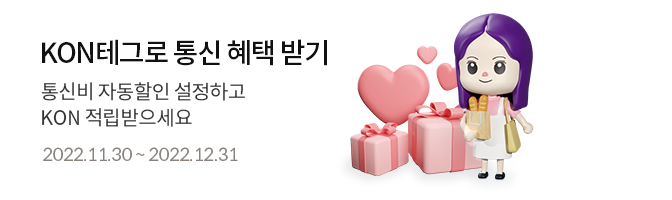
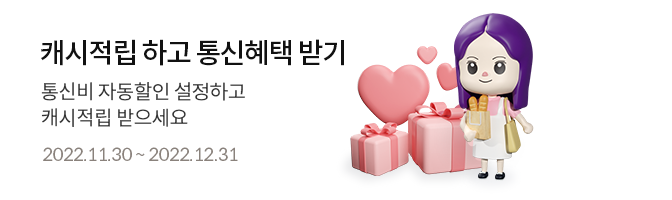
20221125 수정사항

Changed region(s): [[0.0625, 0.18, 0.5312, 0.33], [0.0625, 0.54, 0.2812, 0.66]]

diff --git a/assets/css/style.css b/assets/css/style.css
@@ -398,6 +398,7 @@ article.certify-box .certify {border-top:0;line-height:1;text-align: left;}
 .pattern .card-body .flex.column .home-info + .home-info{padding-top: 1rem;}
 .pattern .card-body .flex.column .home-info:last-child{padding-bottom: 0;}
 .pattern .card-body .flex.column .home-info.coin  dd p{color:#0fbcdd;font-weight: 700;}
+.pattern .card-body .flex.column .home-info.coin  dd p>em{font-size:1.5rem;}
 .pattern .card-body .flex.column .home-info.coin.connect-prev .btn-xs{/* margin-top: 4rem; */padding-right:0.5625rem;}
 .pattern .card-body .flex.column .home-info.coin .btn-w-fixed{height:2rem;display: inline-flex;align-items: center;justify-content: center;/*font-size: .9rem;*/padding-right: .9rem;}
 
@@ -3649,6 +3650,7 @@ main.sch-comn .ico{background-repeat: no-repeat;background-position: center;back
 .coinback-guide-container>li{margin-top:1.25rem;border-bottom: 1px solid #e4e4e4;padding-bottom: 1rem;}
 .coinback-guide-container>li:last-child{border-bottom: 0;}
 .coinback-guide-container img{display: block;margin:.5rem auto;margin-bottom:1rem;max-width: 16.375rem;image-rendering: -webkit-optimize-contrast;}
+.coinback-guide-container img.min-img{max-width:50%;}
 .coinback-guide-container .title{margin-bottom: .8rem;}
 .coinback-guide-container .title .num{color:#0fbcdd;font-weight: 600;font-size: 1.1875rem;}
 .coinback-guide-container .title .num::after{content: '.';}
@@ -5095,7 +5097,7 @@ main.sch-comn .ico{background-repeat: no-repeat;background-position: center;back
 .btn-light:disabled {background-color:#e4e4e4;color:#111;cursor: default;}
 .btn-light-secondary {color: #fff;background-color: #53cee6;border-radius: 0.25rem;}
 .btn-light-gray{color:#111;background-color: #f2f3f7;}
-.btn-more {font-size:.75rem;color:#888;/* text-decoration: underline; */min-height:1rem;}
+.btn-more {display:inline-flex;align-items:center;font-size:.75rem;color:#888;/* text-decoration: underline; */min-height:1rem;}
 .btn-dark{background-color: #444;color:#fff;}
 .btn-gray{background-color: #bcbcbc;color:#fff;}
 
@@ -5109,7 +5111,7 @@ main.sch-comn .ico{background-repeat: no-repeat;background-position: center;back
 .btn-round{border-radius: 2rem;}
 
 .btn-save-info-pop{position: relative;border-radius: 0.85rem !important;}
-.btn-save-info-pop::after{content:'';display: block;background:url(../images/icon/ico-question.gif) no-repeat center/contain;position: absolute;width:53px;height:37px;top:-34px;left:calc(50% - 20px);}
+.btn-save-info-pop::after{content:'';display: none;background:url(../images/icon/ico-question.gif) no-repeat center/contain;position: absolute;width:53px;height:37px;top:-34px;left:calc(50% - 20px);}
 .auto-save-area{display: flex;align-items: center;justify-content: space-between;min-height: 60px;}
 .auto-save-area .btn-save-info-pop{margin-bottom:-30px;}
 
@@ -5387,6 +5389,11 @@ main.sch-comn .ico{background-repeat: no-repeat;background-position: center;back
     background-size: 60%;
     background-position: center;
     margin-left: 5px;
+}
+
+h1 + .ico-refresh2{
+    position: absolute;
+    right:2.2rem;
 }
 
 .my-event .tab-wrp{
@@ -6051,8 +6058,8 @@ section.membership-barcode,
 .loading-now.open, .loading-short.show {width:100%;}
 .loading-now img, .loading-short img {max-height:10rem;}
 
-.pass-coinback-wrp {overflow: hidden;position: relative;height:5.2rem;padding:1rem 0 0;border-radius: 1rem;background:transparent url(../images/pass/bg_mydataBanner.jpg) no-repeat center / auto 100%;box-shadow: inherit}
-.pass-coinback-wrp:before {content:"";display:block;position: absolute;top:0;left:60%;right:0;z-index: 2;height:1.593rem;background-color: #53cee6;}
+.pass-coinback-wrp {overflow: hidden;position: relative;height:5.2rem;padding:0;border-radius: 1rem;background:transparent url(../images/pass/bg_mydataBanner.jpg) no-repeat center / auto 100%;box-shadow: inherit}
+.pass-coinback-wrp:before {content:"";display:block;position: absolute;top:0;left:60%;right:0;z-index: 2;height:1.6rem;background-color: #53cee6;}
 .pass-coinback-wrp:after {content:"";display:block;position: absolute;top:0;left:60%;right:0;z-index: 1;height:100%;background-color: #eaf9fc;}
 .pass-coinback-wrp .mydata-banner {display: flex;justify-content: space-evenly;align-items: flex-end;}
 .pass-coinback-wrp .mydata-banner .my-info{margin-top:-.2rem;padding-bottom:.2rem;}
@@ -6062,7 +6069,7 @@ section.membership-barcode,
 .pass-coinback-wrp .coin {margin-top:0.25rem;color:#383838;font-size:0.875rem;font-weight: 700;}
 .pass-coinback-wrp .coin strong {font-size:1.125rem;}
 .pass-coinback-wrp .col-8 {position: relative;z-index: 2;height:100%;}
-.pass-coinback-wrp .brand-area img {height:3rem;max-height:100%;}
+.pass-coinback-wrp .brand-area img {height:4.75rem;max-height:100%;}
 .pass-coinback-wrp .brand-area .info {height:1rem;text-align: right;}
 .pass-coinback-wrp .brand-area ul {display: flex;}
 .pass-coinback-wrp .brand-area li {position: relative; height:2.375rem;padding:0 0.5625rem;}

diff --git a/MYA1_02_자산관리.html b/MYA1_02_자산관리.html
@@ -15,6 +15,9 @@
 	<header id="header" class="bg-white title-left">
 		<button type="button" class="btn-back"><em class="ico ico-back">이전</em></button>
 		<h1>자산 관리</h1>
+		<!-- 20221124 업데이트 버튼 이동 -->
+		<button type="button" class="ico-refresh2" title="자산현황 업데이트"></button>
+		<!--//20221124 업데이트 버튼 이동 -->
 	</header>
 	<!-- //header -->
 
@@ -39,14 +42,15 @@
 				</ul>
 			</nav>
 		</header>
-		<!-- 20221122 자산 업데이트 버튼 추가 -->
+		<!-- 20221122 자산 업데이트 버튼 추가 -> 20221124 업데이트 버튼 삭제로 주석처리 -->
+		<!--
 		<section class="">
 			<button class="btn-extra text-left">
 				<i class="ico-asset-char"></i>
 				내 자산 업데이트 하기
-				<i class="ico-refresh2"></i>
 			</button>
 		</section>
+		-->
 		<!--//20221122 자산 업데이트 버튼 추가 -->
 		<section class="">
 			<header>
@@ -296,7 +300,7 @@
 							<!-- 20220713 "원" <span>코드 추가, assets-total, hidden-txt 내 mt0 삭제 -->
 							<strong class="assets-total won"><em class="c-blue">1,123,000</em><span>원</span></strong>
 							<span class="hidden-txt">금액 숨기기</span>
-							<i class="ico ico-refresh2"></i> <!-- [D]rotate 필요한 경우 rotate-circle 클래스 추가 -->
+							<!-- 20221124 삭제 <i class="ico ico-refresh2"></i>  [D]rotate 필요한 경우 rotate-circle 클래스 추가 -->
 						</div>
 					</div>
 					<label class="btn-switch">

diff --git a/캐시적립(코인백)_이용안내.html b/캐시적립(코인백)_이용안내.html
@@ -14,7 +14,7 @@
 	<!-- header -->
 	<header id="header" class="title-left">
 		<button type="button" class="btn-back"><em class="ico ico-back">이전</em></button>
-		<h1>캐시 적립</h1>
+		<h1>이용안내</h1>
 		<button type="button" class="ico-savelist" onclick="location.href = '캐시적립(코인백)_내역보기.html' " title="적립내역"></button>
 	</header>
 	<!-- //header -->
@@ -130,13 +130,13 @@
 								<span class="txt">적립하신 캐시으로 매월 최대 2만원까지
 									통신비를 할인받으실 수 있습니다. </span>
 									
-								<p class="txt-caution">
+								<p class="txt-caution pl2">
 									※ ‘통신비 자동 할인받기’로 설정되어 있는 경우, 캐시 적립
 									실적에 따라 자동으로 통신비를 할인해 드립니다. 
 									원치 않으실 경우 체크를 해제해 주세요.
 								</p>
 
-								<img src="assets/images/kon/desc-img6-2.png" />
+								<img src="assets/images/kon/desc-img6-2.png" class="min-img" />
 
 			
 							</div>

diff --git a/HOM1_01_한눈에(홈).html b/HOM1_01_한눈에(홈).html
@@ -73,7 +73,7 @@
 							</dt>
 							<dd>
 								<span class="desc-title">이용금액</span>
-								<p class="won"><em>127,700</em></p>
+								<p class="won c-gray"><em>127,700</em></p>
 							</dd>
 							<dd>
 								<span class="desc-title">할인금액</span>
